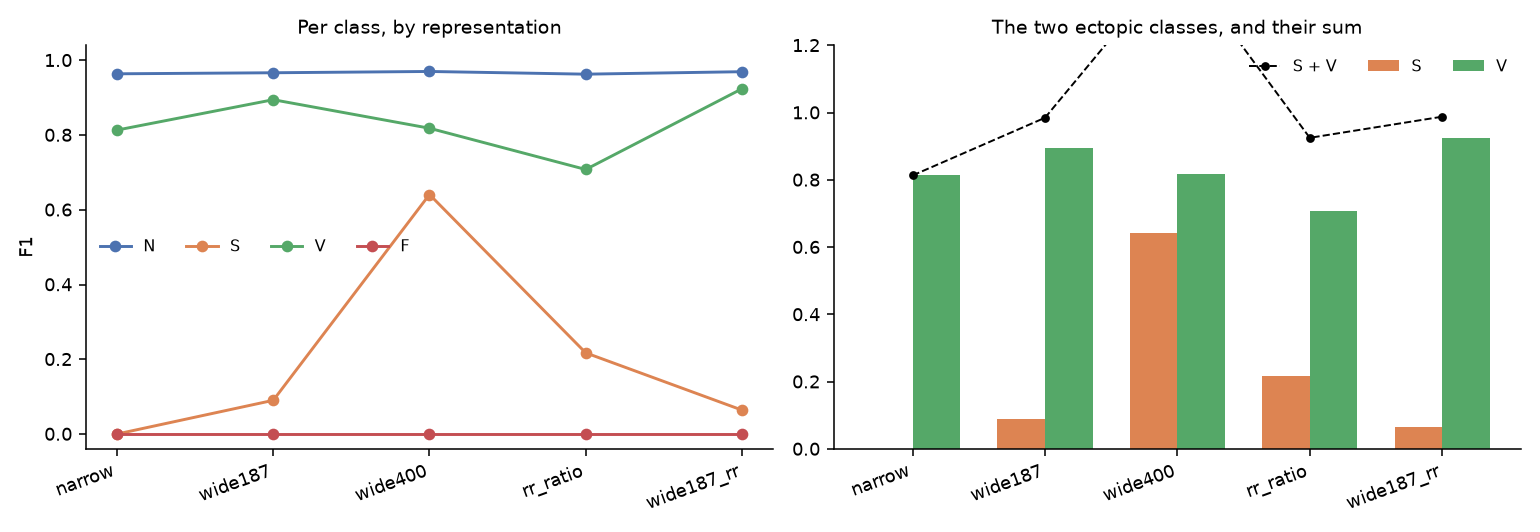
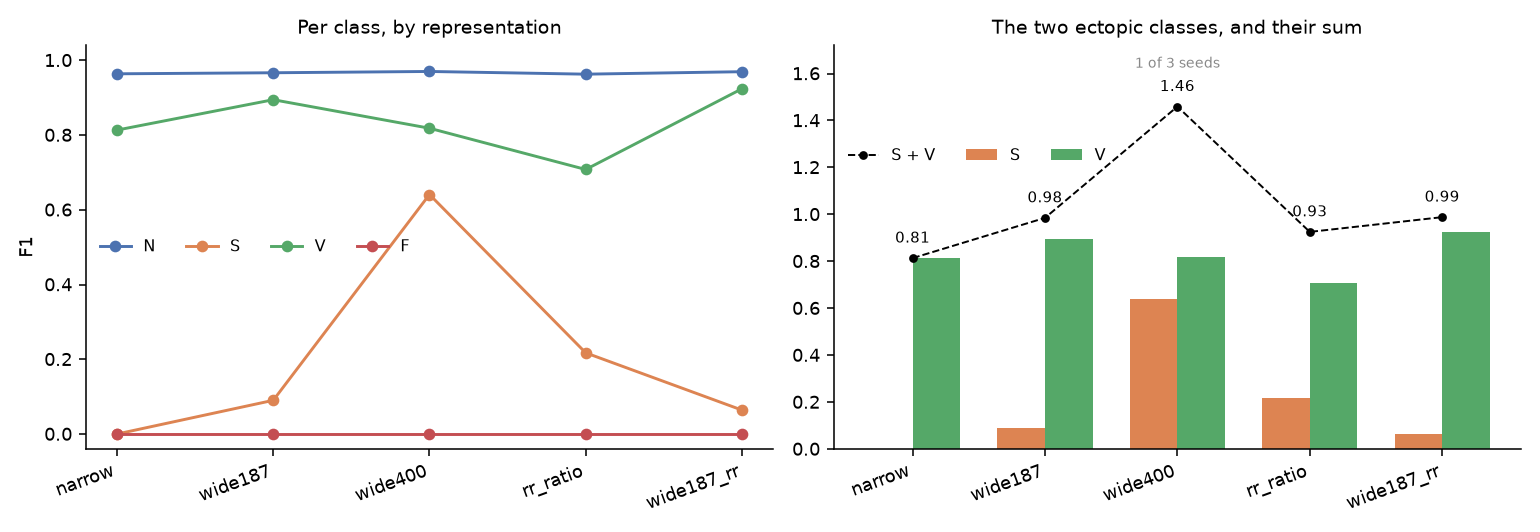
Fix the ectopic-sum panel and align the report's claim with it

diff --git a/analysis/figures.py b/analysis/figures.py
@@ -317,11 +317,23 @@ def figure_representation(data, out):
     axes[1].bar(x + 0.18, [scores[n][2] for n in names], width=0.36,
                 color="#55A868", label="V")
     axes[1].plot(x, total, "k.--", ms=7, lw=1, label="S + V")
+    for position, value, name in zip(x, total, names):
+        axes[1].annotate(f"{value:.2f}", (position, value), textcoords="offset points",
+                         xytext=(0, 8), ha="center", fontsize=7.5)
+        # wide400 is the one arm whose sum leaves the band the others occupy, and
+        # it does so on the strength of a supraventricular score that two further
+        # seeds did not reproduce. Saying so on the figure stops the point
+        # estimate from reading as a counterexample to the text.
+        if name == "wide400":
+            axes[1].annotate("1 of 3 seeds", (position, value), textcoords="offset points",
+                             xytext=(0, 20), ha="center", fontsize=7, color="#888888")
     axes[1].set_xticks(x)
     axes[1].set_xticklabels(names, rotation=20, ha="right")
-    axes[1].set_ylim(0, 1.2)
+    # Headroom for the sum line and its labels; the legend sits below them so it
+    # does not cover the quantity the panel exists to show.
+    axes[1].set_ylim(0, 1.72)
     axes[1].set_title("The two ectopic classes, and their sum")
-    axes[1].legend(ncol=3)
+    axes[1].legend(ncol=3, loc="upper left", bbox_to_anchor=(0.0, 0.78))
 
     fig.tight_layout()
     fig.savefig(out / "result_representation.png")

diff --git a/docs/report.md b/docs/report.md
@@ -450,9 +450,11 @@ Crossing window context against explicit intervals gives an interaction of
 **−0.026**: the two sources of timing are redundant, not complementary. Adding
 intervals to the wider window buys 0.0015 over the window alone.
 
-The per-class view shows substitution rather than plateau. The two ectopic F1
-scores sum to 0.813, 0.985, 0.925 and 0.988 across the four arms — the split
-between the classes moves freely while the total does not. Prematurity is a
+The per-class view shows substitution rather than plateau. Across the four arms
+of the grid the two ectopic F1 scores sum to 0.813, 0.985, 0.925 and 0.988 — the
+split between the classes moves freely while the total does not. `wide400` is
+the exception at 1.459, and the paragraph below explains why that number is not
+one to build on. Prematurity is a
 property they share, at normalised ratios of 0.763 and 0.733, so a network handed
 timing learns that a beat is ectopic without learning which kind, and assigns it
 to whichever is four times more common in training.
@@ -654,7 +656,7 @@ The representation result is the most informative. Prematurity is shared between
 the two ectopic classes at 0.763 and 0.733 of the local mean, so timing
 identifies that a beat is ectopic without identifying which kind. Every arm
 therefore trades one class against the other, the sum of their F1 scores confined
-between 0.81 and 0.99. And §4.11 adds that the class is not even homogeneous in
+between 0.81 and 0.99 in the four arms that replicate. And §4.11 adds that the class is not even homogeneous in
 the property the feature was built on.
 
 ### 5.5 The structure prevents verification
